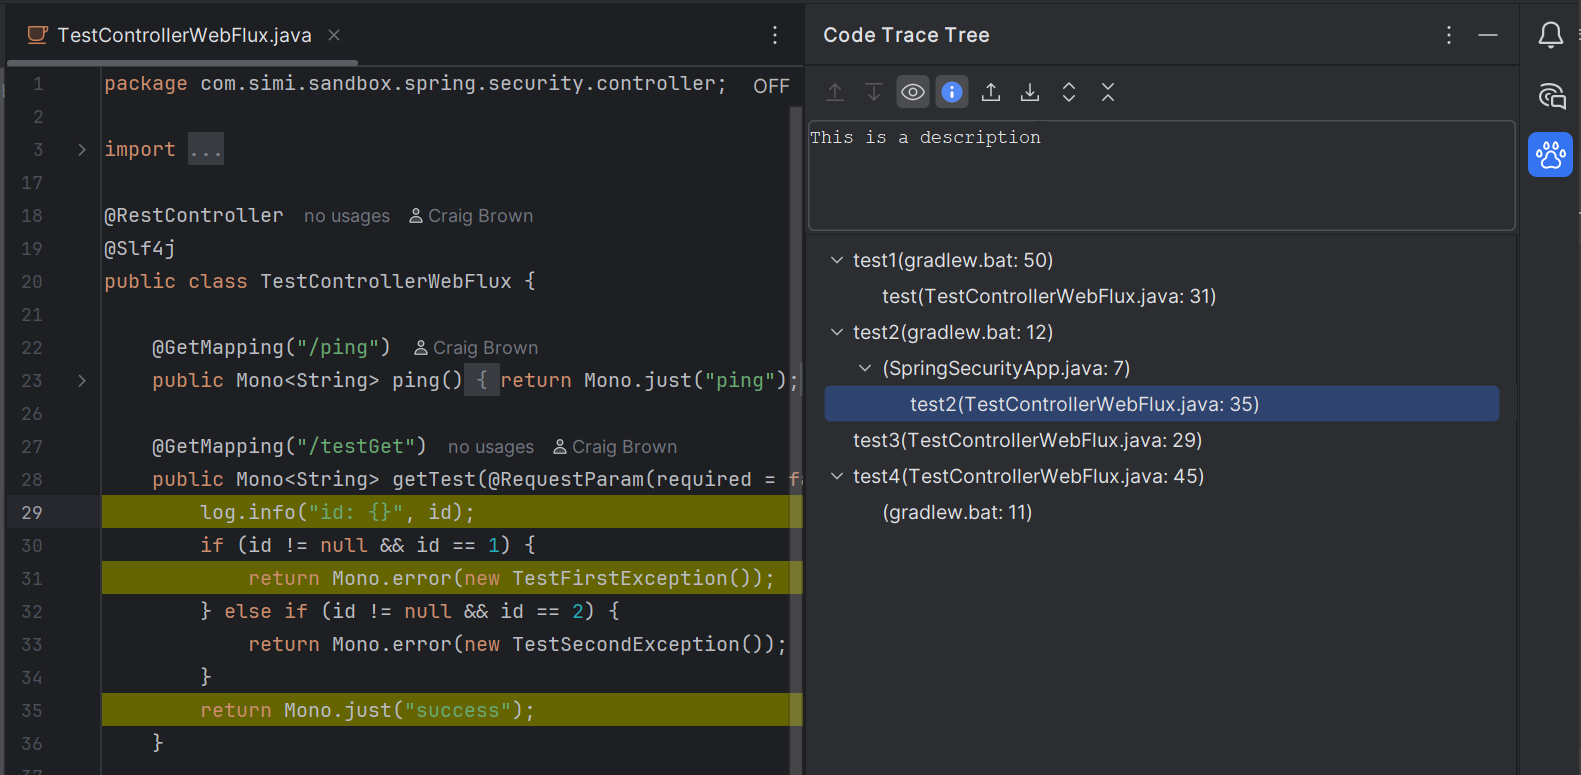
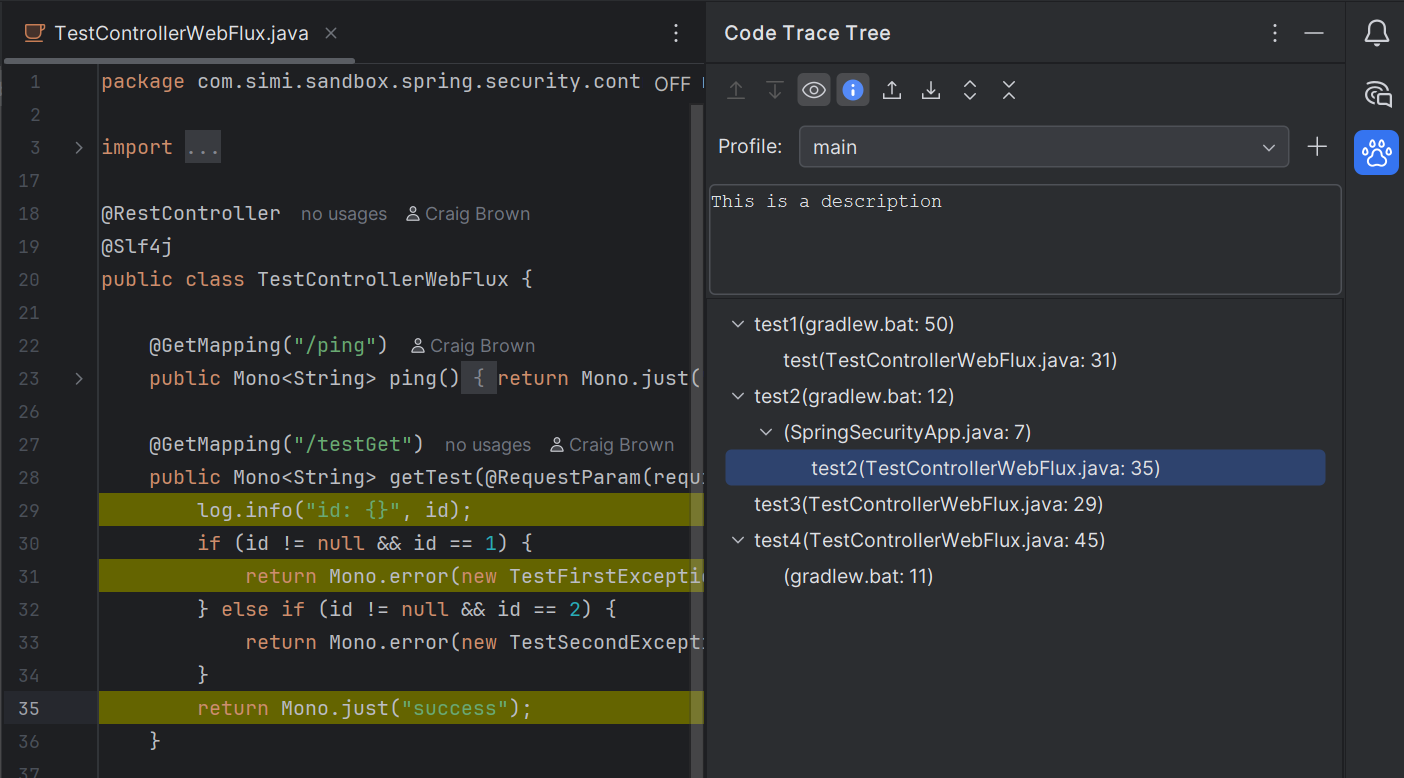
[Global] docs: Update preview image for multi-profile UI

diff --git a/README.md b/README.md
@@ -14,7 +14,7 @@ Double click any trace point to navigate to its source, with support for multipl
 <!-- Plugin description end -->
 
 # Preview
-![](./docs/assets/preview.png)
+![](docs/assets/preview.png)
 
 # How to use
 
